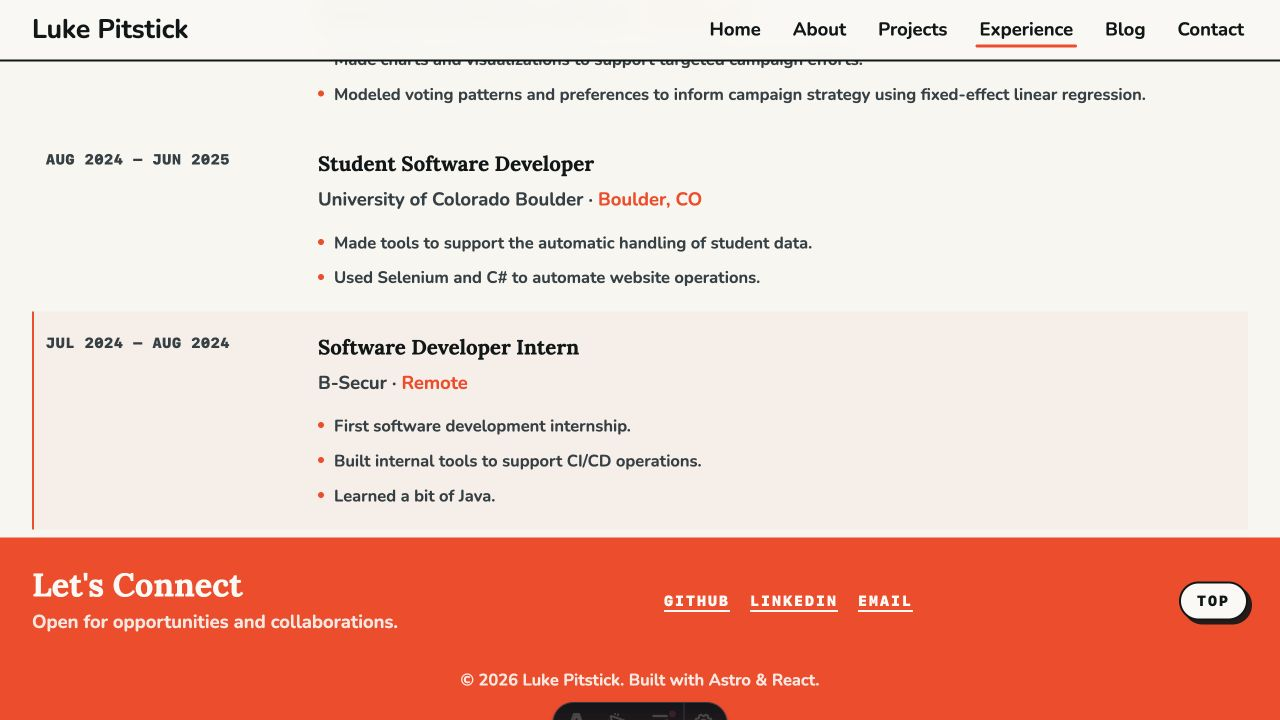
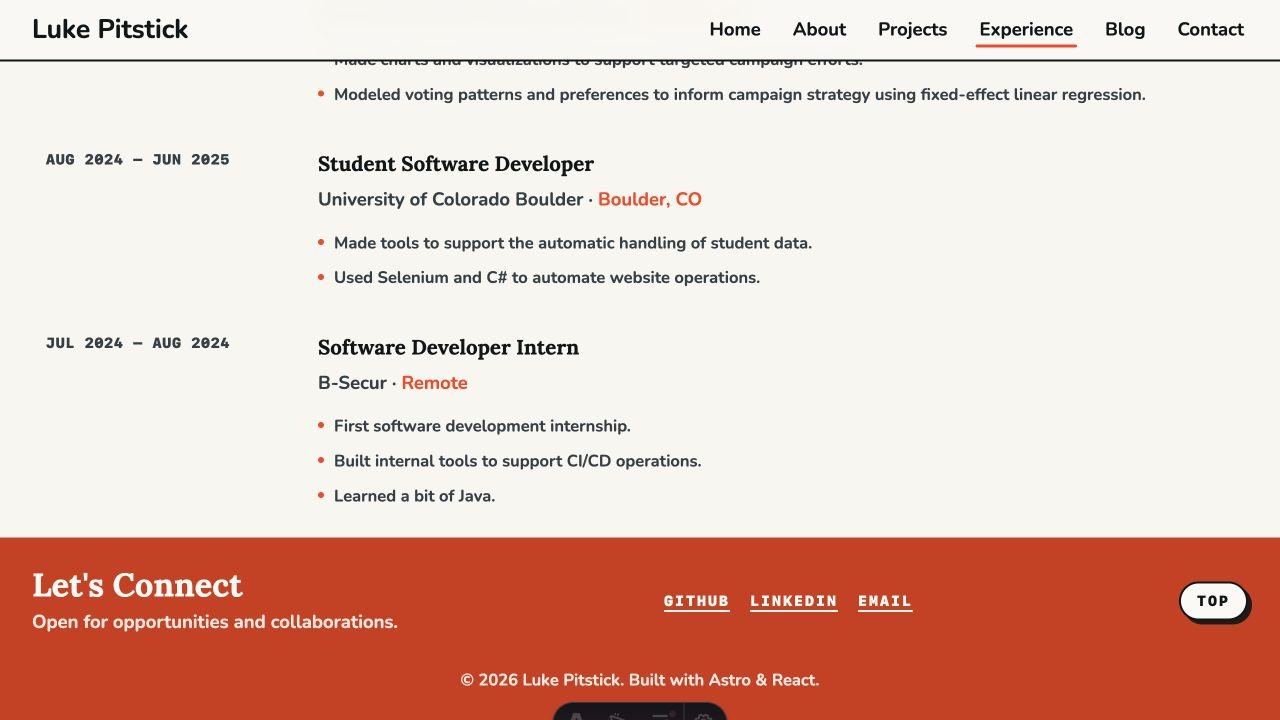
Scale dither reveal to display resolution

Changed region(s): [[0.0, 0.7333, 1.0, 1.0]]

diff --git a/src/components/DitheredHeroCanvas.jsx b/src/components/DitheredHeroCanvas.jsx
@@ -3,11 +3,10 @@ import { useDitheredCanvas } from '@dithered-particle-canvas/react';
 
 const HERO_WIDTH = 1280;
 const HERO_HEIGHT = 720;
-const MACBOOK_PRO_BASELINE_WIDTH = 1512;
+const MACBOOK_PRO_BASELINE_PIXEL_WIDTH = 3024;
+const MACBOOK_PRO_BASELINE_PIXEL_HEIGHT = 1964;
 const LOW_RESOLUTION_SCALE = 0.6;
 const HERO_RENDERER_DEVICE_PIXEL_RATIO = 1;
-const BASE_RENDER_WIDTH = MACBOOK_PRO_BASELINE_WIDTH * LOW_RESOLUTION_SCALE;
-const BASE_RENDER_HEIGHT = HERO_HEIGHT * LOW_RESOLUTION_SCALE;
 const FOREGROUND_PIXEL_SIZE = 6;
 const REVEAL_EDGE_NOISE = 0.56;
 const REVEAL_EDGE_DITHER = 0.94;
@@ -83,7 +82,7 @@ const DitheredHeroCanvas = ({ onAutoOnlyChange, onInteractiveChange, onUserInter
     console.error('Dithered hero WebGL renderer failed.', error);
     setUseStaticFallback(true);
   }, []);
-  const interactionScale = useInteractionScale(rootRef);
+  const interactionScale = useInteractionScale();
 
   useEffect(() => {
     if (useStaticFallback) {
@@ -534,62 +533,55 @@ function buildRevealConfig(interactionScale = 1) {
   };
 }
 
-function useInteractionScale(rootRef) {
-  const [interactionScale, setInteractionScale] = useState(getInitialInteractionScale);
+function useInteractionScale() {
+  const [interactionScale, setInteractionScale] = useState(getScreenInteractionScale);
 
   useEffect(() => {
-    const root = rootRef.current;
-
-    if (!root || typeof window === 'undefined') {
+    if (typeof window === 'undefined') {
       return undefined;
     }
 
-    const updateScale = ([entry]) => {
-      if (!entry) {
-        return;
-      }
-
-      const nextScale = calculateInteractionScale(
-        entry.contentRect.width,
-        entry.contentRect.height,
-        HERO_RENDERER_DEVICE_PIXEL_RATIO
-      );
+    const updateScale = () => {
+      const nextScale = getScreenInteractionScale();
 
       setInteractionScale((currentScale) =>
         Math.abs(currentScale - nextScale) < 0.01 ? currentScale : nextScale
       );
     };
 
-    const resizeObserver = new ResizeObserver(updateScale);
-    resizeObserver.observe(root);
+    window.addEventListener('resize', updateScale);
 
     return () => {
-      resizeObserver.disconnect();
+      window.removeEventListener('resize', updateScale);
     };
-  }, [rootRef]);
+  }, []);
 
   return interactionScale;
 }
 
-function getInitialInteractionScale() {
+function getScreenInteractionScale() {
   if (typeof window === 'undefined') {
     return 1;
   }
 
   return calculateInteractionScale(
-    window.innerWidth || HERO_WIDTH,
-    window.innerHeight || HERO_HEIGHT,
-    HERO_RENDERER_DEVICE_PIXEL_RATIO
+    window.screen.width,
+    window.screen.height,
+    window.devicePixelRatio || 1
   );
 }
 
 function calculateInteractionScale(width, height, devicePixelRatio = 1) {
-  const renderWidth = width * QUALITY.resolutionScale * devicePixelRatio;
-  const renderHeight = height * QUALITY.resolutionScale * devicePixelRatio;
+  const screenPixelWidth = width * devicePixelRatio;
+  const screenPixelHeight = height * devicePixelRatio;
 
   return Math.max(
     0.1,
-    Math.min(1, renderWidth / BASE_RENDER_WIDTH, renderHeight / BASE_RENDER_HEIGHT)
+    Math.min(
+      1,
+      screenPixelWidth / MACBOOK_PRO_BASELINE_PIXEL_WIDTH,
+      screenPixelHeight / MACBOOK_PRO_BASELINE_PIXEL_HEIGHT
+    )
   );
 }
 

diff --git a/src/components/Contact.jsx b/src/components/Contact.jsx
@@ -24,7 +24,7 @@ const Contact = () => {
       initial={false}
       whileInView="show"
       viewport={viewportOnce}
-      className="w-full bg-[#ff3a12] text-[#faf9f4]"
+      className="w-full bg-[#d43310] text-[#faf9f4]"
     >
       <div className={`${SITE_SHELL} py-6 md:py-7`}>
         <motion.div

diff --git a/design-qa.md b/design-qa.md
@@ -29,7 +29,7 @@ The reference and implementation screenshots were reviewed together in the same 
 
 - Typography: existing Lora, Nunito, and monospace roles are preserved; weights and hierarchy match the surrounding site.
 - Spacing and layout: the responsive footer keeps the existing shell width and desktop three-column alignment.
-- Color: solid `#ff3a12` orange background with `#faf9f4` white foreground text.
+- Color: solid `#d43310` orange background with `#faf9f4` white foreground text, providing a 4.65:1 WCAG AA contrast ratio for the smaller footer copy.
 - Assets: no imagery is required for this footer state; icon assets were intentionally removed from the social links.
 - Copy: contact copy and copyright remain unchanged; social destinations are labeled GitHub, LinkedIn, and Email.
 
@@ -44,6 +44,7 @@ The reference and implementation screenshots were reviewed together in the same 
 1. First pass found that the global heading rule kept “Let's Connect” dark and that the Experience index band still rendered its lower border.
 2. The heading received an explicit white override and the Experience index band's bottom border was removed locally, leaving other index bands unchanged.
 3. Second pass confirmed the heading is white, both footer-adjacent borders are zero-width, and the social links have transparent backgrounds.
+4. Standards review found insufficient contrast between the original bright orange and the smaller white copy. The orange was deepened to `#d43310`, preserving the requested solid orange treatment while raising contrast to 4.65:1.
 
 ## Findings
 
